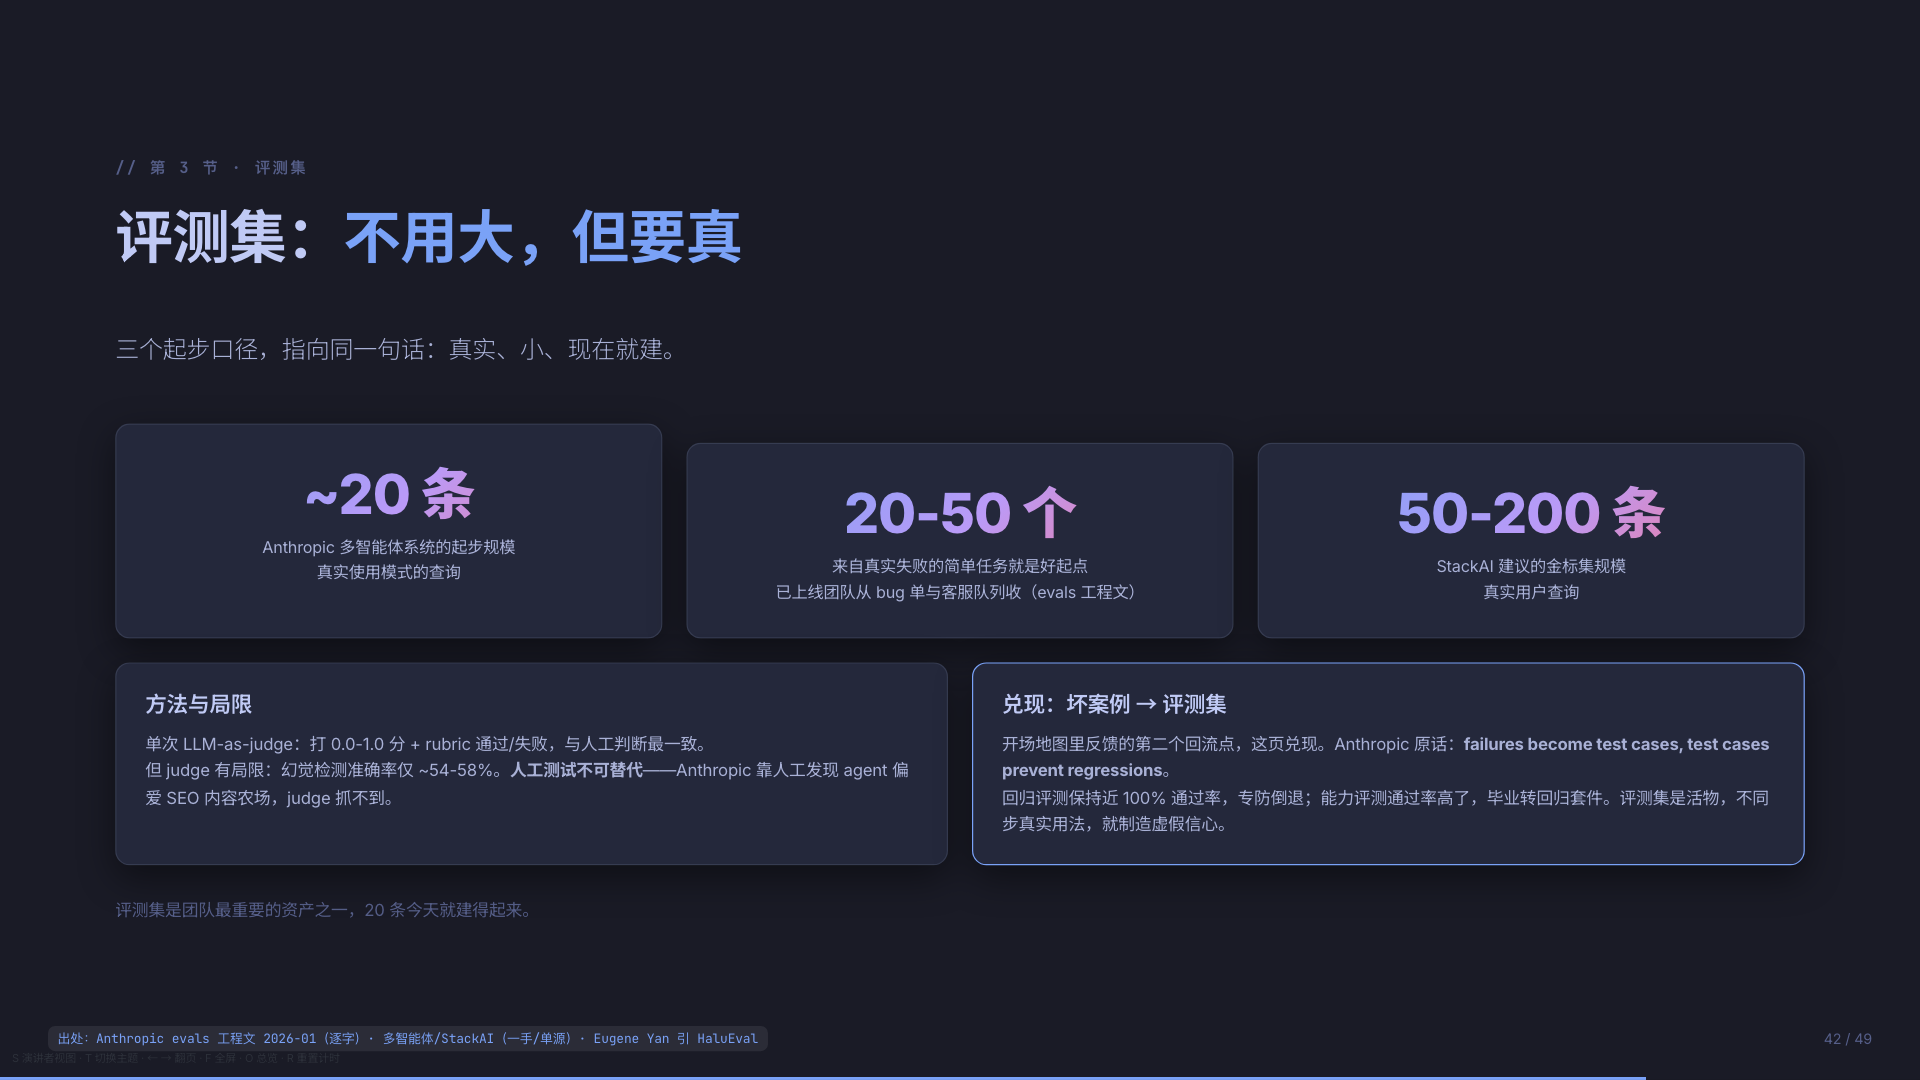
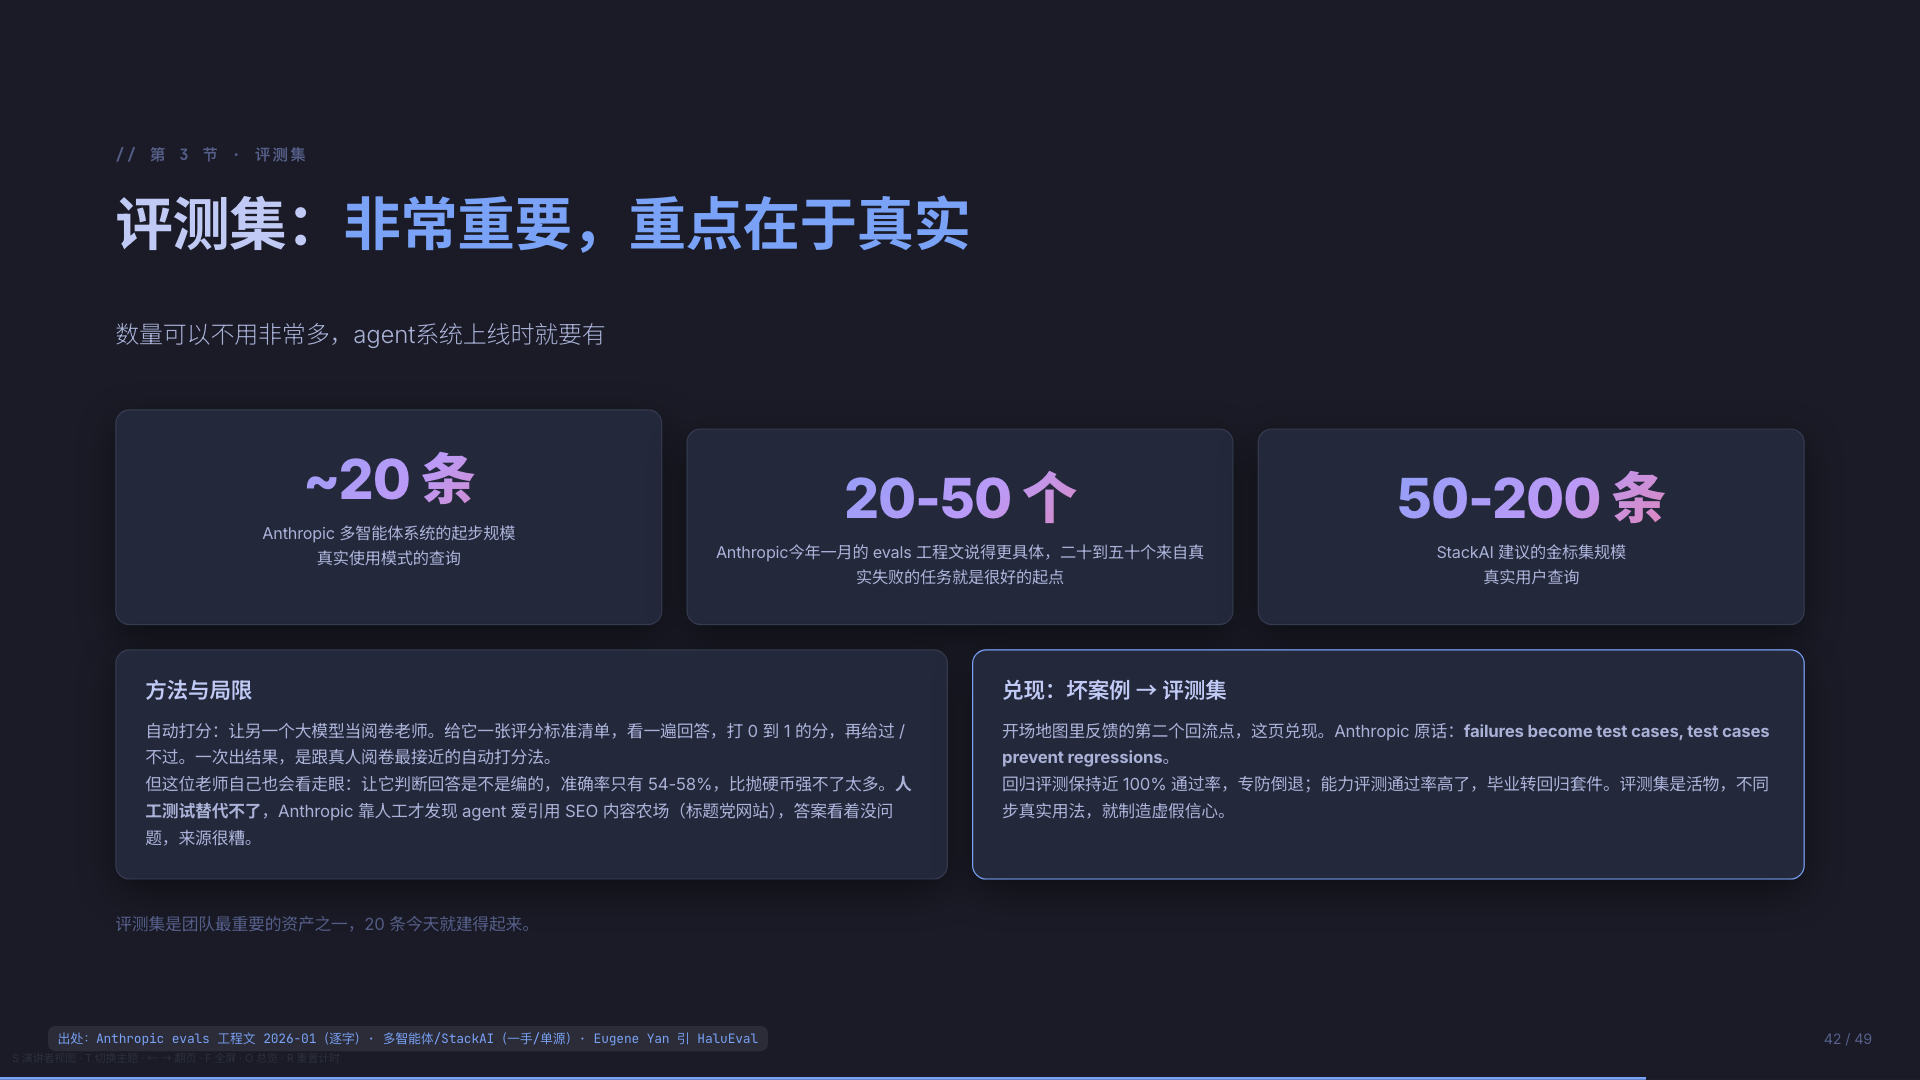
Refresh remaining preview PNGs

diff --git a/slides/index.html b/slides/index.html
@@ -1681,7 +1681,7 @@
   <section class="slide" data-title="S43 评测护栏">
     <p class="kicker">// 第 3 节 · 评测集</p>
     <h2 class="h2" data-anim="fade-up">评测护栏的<span class="accent">真实价值</span></h2>
-    <p class="lede">两个真实案例：没有评测，你不会知道升级伤了哪里。</p>
+    <p class="lede">两个真实案例：没有评测，你不会知道升级改坏了哪里。</p>
 
     <div class="grid g2 mt-l" data-anim="fade-up">
       <div class="card stat-card">
